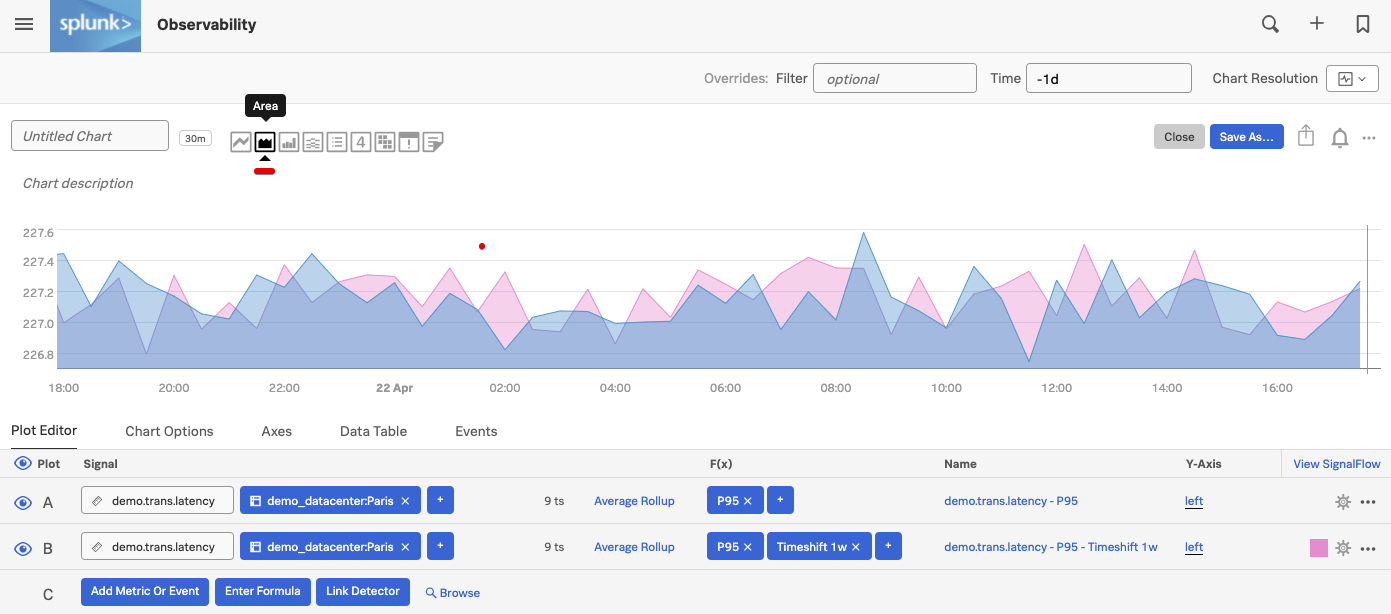
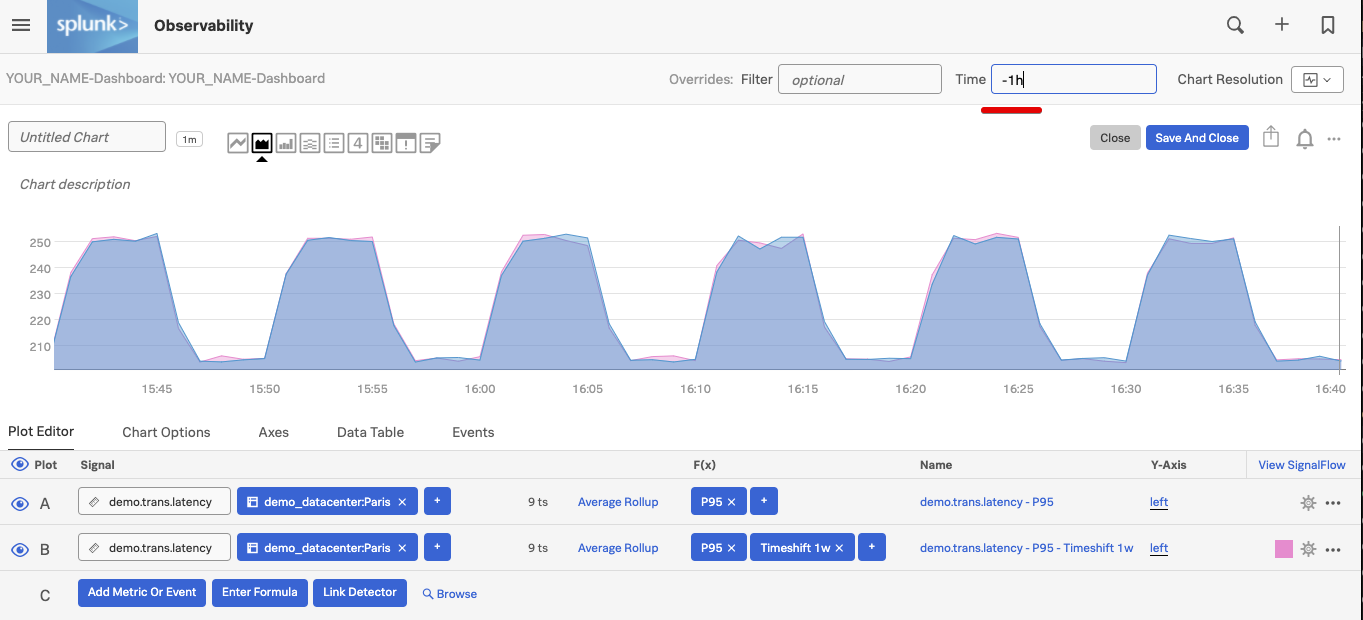
Upt to filter

diff --git a/docs/dashboards/filtering.md b/docs/dashboards/filtering.md
@@ -21,7 +21,9 @@ In the **Plot Editor** tab under **Signal** enter **`demo.trans.latency`**.
 
 ![Signal](../images/dashboards/M-Editing-7.png)
 
-You should now have a familair line chart.
+You should now have a familair line chart. please switch the time to 15 mins.
+
+![Signal](../images/dashboards/M-Filter-10.png)
 
 ## 2. Filtering and Analytics
 
@@ -59,16 +61,16 @@ Click on the cog on the far right, and choose a **Plot Color** e.g. pink, to cha
 
 Click on **Close**.
 
-Next, click into the field next to **Time** on the Override bar and choose **`Past Hour`** from the dropdown.
+We now see plots for Signal **A** (the past 15 minutes) as a blue plot, and the plots from a week ago in pink.
 
-![Timeframe](../images/dashboards/M-Filter-7.png)
-
-We now see plots for Signal **A** (the past hour) as a blue plot, and the plots from a week ago in pink.
-
-![Chart](../images/dashboards/M-Filter-8.png)
+![Chart](../images/dashboards/M-Filter-7.png)
 
 In order to make this clearer we can click on the **Area chart** icon to change the visualization.
 
-![Area Chart](../images/dashboards/M-Filter-9.png)
+![Area Chart](../images/dashboards/M-Filter-8.png)
 
 We now have a better view of our two plots!
+
+Next, click into the field next to **Time** on the Override bar and choose **`Past Hour`** from the dropdown.
+
+![Timeframe](../images/dashboards/M-Filter-9.png)
